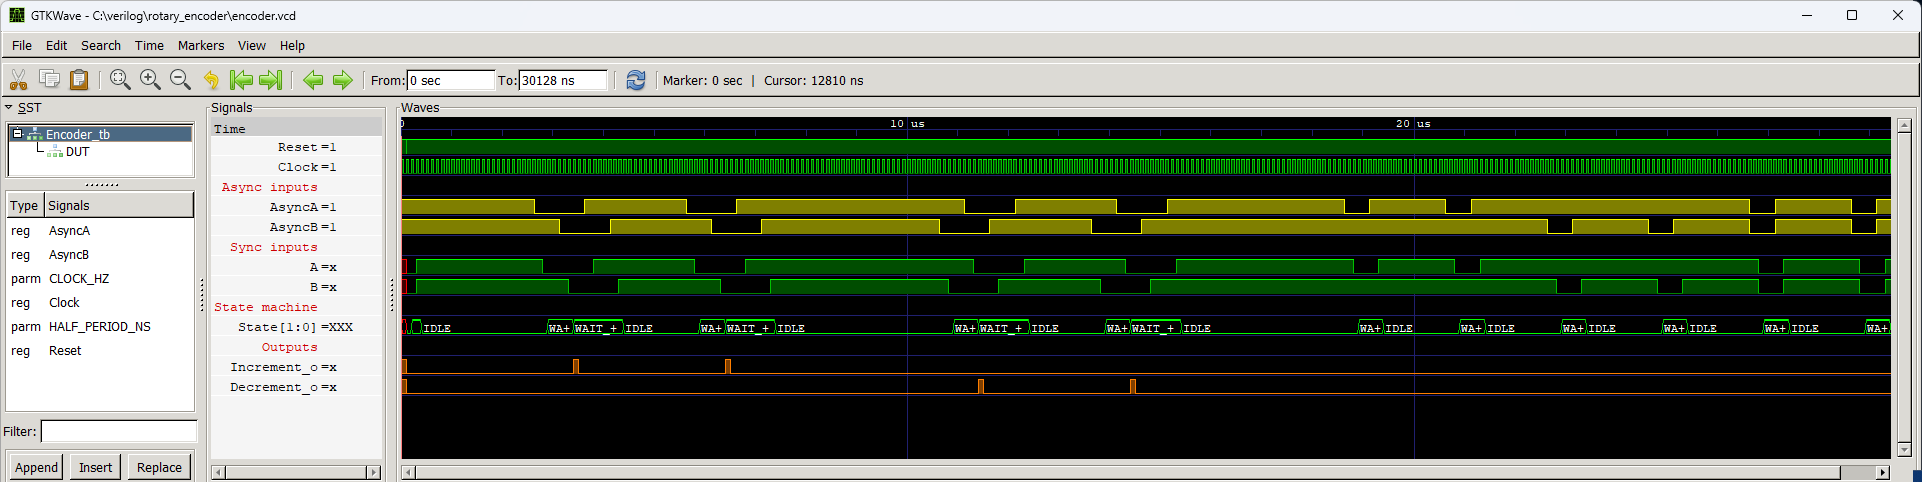
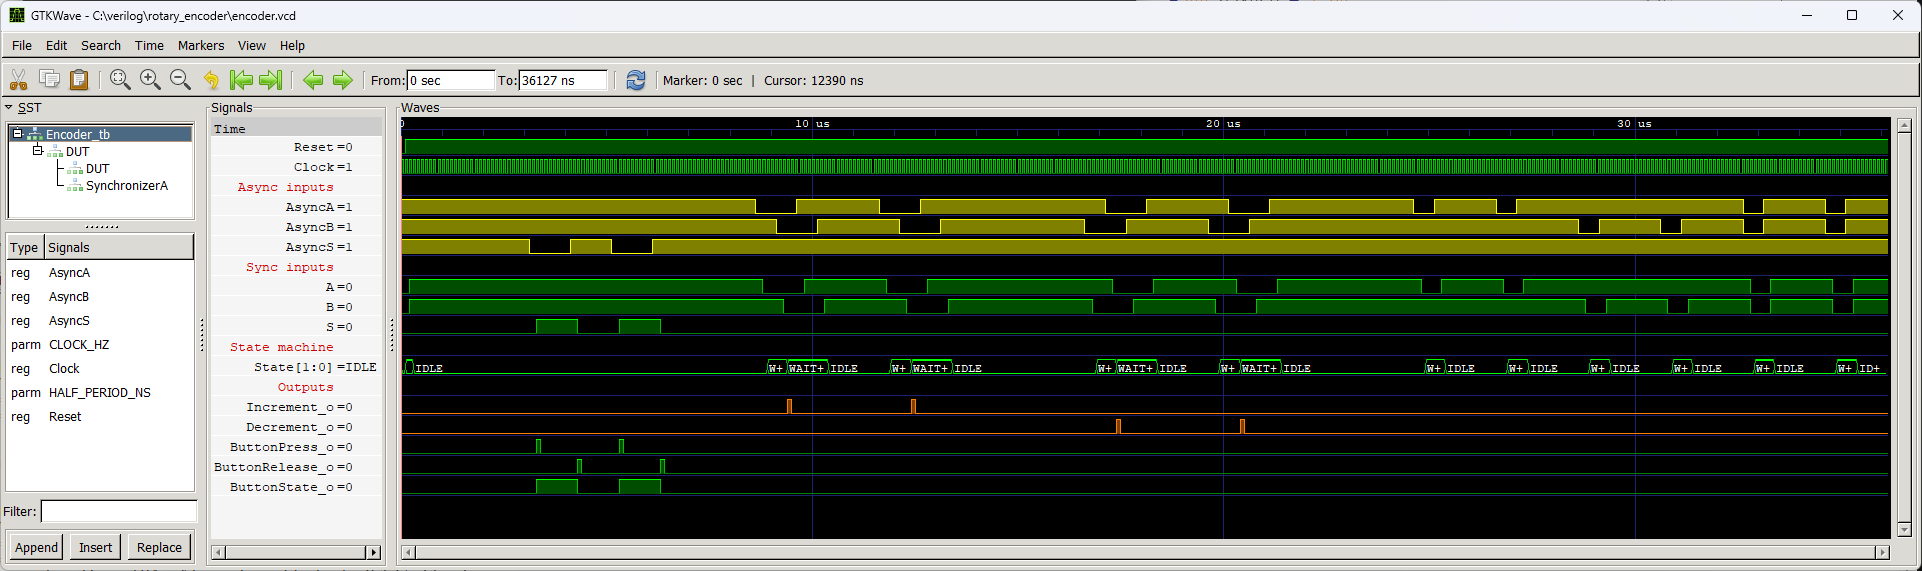
Added support for button in the encoder

diff --git a/rotary_encoder/readme.md b/rotary_encoder/readme.md
@@ -2,7 +2,7 @@
 
 ![Status](https://img.shields.io/badge/STATUS-READY-green.svg)
 
-Module supporting a rotary encoder. Allows recognition of increment and decrement signals of ecoders, which have four pulses per click. 
+Module supporting a rotary encoder with a button. Allows recognition of increment and decrement signals of ecoders, which have four pulses per click. Also, it generates a pulse if a button is pressed or released.
 
 The rotary encoder should be connected as shown in the schematic. The FPGA chip pins connected to the encoder should have hysteresis enabled.
 
@@ -16,8 +16,12 @@ The rotary encoder should be connected as shown in the schematic. The FPGA chip 
 		.Reset(Reset),
 		.AsyncA_i(),
 		.AsyncB_i(),
+		.AsyncS_i(),
 		.Increment_o(),
-		.Decrement_o()
+		.Decrement_o(),
+		.ButtonPress_o(),
+		.ButtonRelease_o(),
+		.ButtonState_o()		
 	);
 ```
 
@@ -27,17 +31,22 @@ The rotary encoder should be connected as shown in the schematic. The FPGA chip 
 + **Reset** - Asynchronous reset, active low.
 + **AsyncA_i** - Asyncronous input from encoder's pin A.
 + **AsyncB_i** - Asyncronous input from encoder's pin B.
++ **AsyncS_i** - Asyncronous input from encoder's button.
 + **Increment_o** - Signal set to high state for one clock cycle if encoder increment is detected.
 + **Decrement_o** - Signal set to high state for one clock cycle if encoder decrement is detected.
++ **ButtonPress_o** - Signal set to high state for one clock cycle if the button press has been recognized.
++ **ButtonRelease_o** - Signal set to high state for one clock cycle if the button release has been recognized.
++ **ButtonState_o** - State of the button synchronized with the clock domain.
 
 ## Simulation
 
 ![Simulation](simulation1.png "Simulation")
 ![Simulation](simulation2.png "Simulation")
+![Simulation](simulation3.png "Simulation")
 
 ## Console output
 
-    VCD info: dumpfile encoder.vcd opened for output.
-    ===== START =====
-    ===== END =====
-    encoder_tb.v:83: $finish called at 30128 (1ns)
+	VCD info: dumpfile encoder.vcd opened for output.
+	===== START =====
+	====== END ======
+	encoder_tb.v:104: $finish called at 36127 (1ns)
